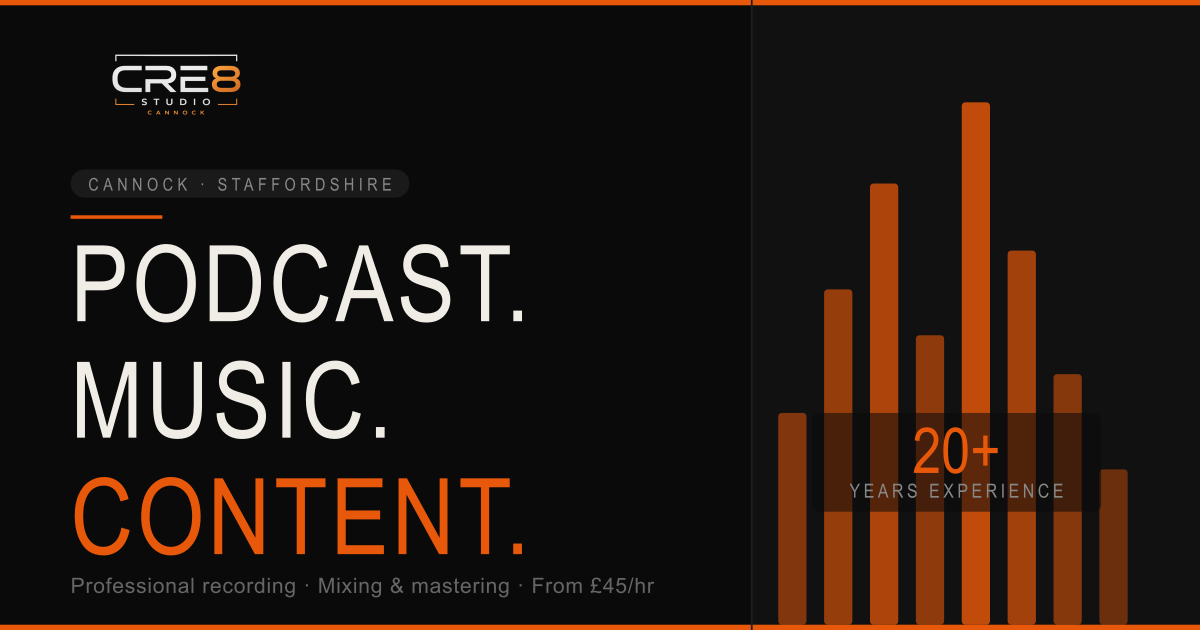
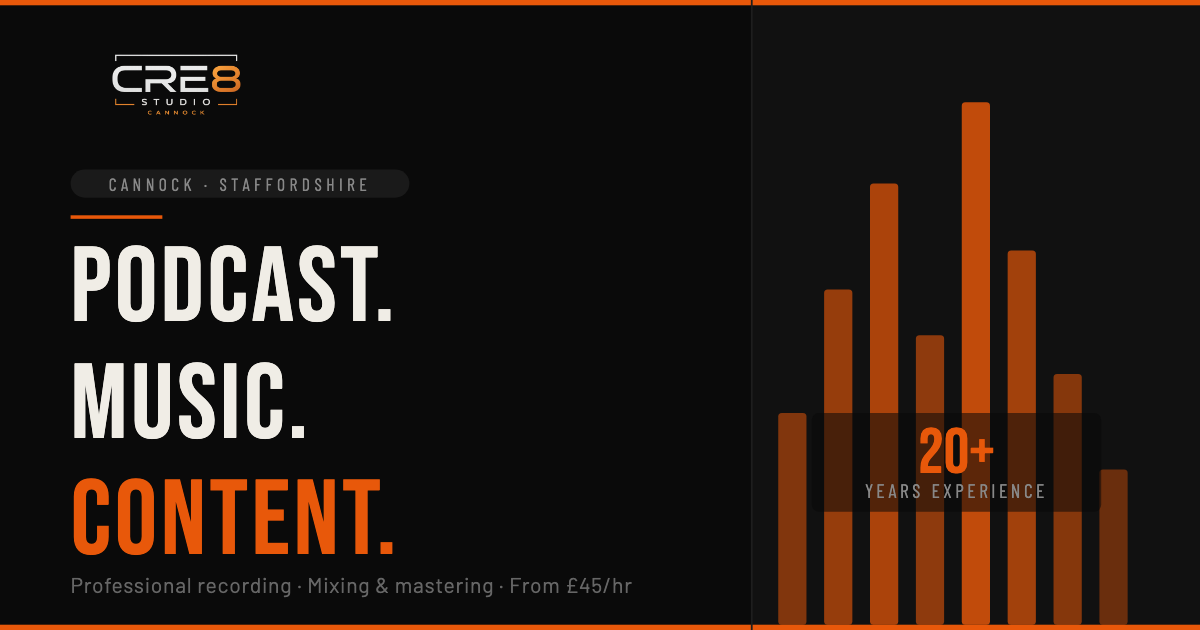
Render OG image with Chromium instead of Cairo for correct font weight
rsvg-convert (Cairo) rendered Bebas Neue noticeably lighter than
browsers do, so the OG card didn't match the hero. Added
img/og-render.html (same SVG markup, real Google Fonts link) and
screenshot it with Playwright's Chromium to get pixel-accurate
font weight matching the live site.

diff --git a/img/og-render.html b/img/og-render.html
@@ -1,0 +1,46 @@
+<!DOCTYPE html>
+<html>
+<head>
+<meta charset="UTF-8">
+<link rel="preconnect" href="https://fonts.googleapis.com">
+<link rel="preconnect" href="https://fonts.gstatic.com" crossorigin>
+<link href="https://fonts.googleapis.com/css2?family=Bebas+Neue&family=Barlow+Condensed:wght@400;600&family=Barlow:wght@400&display=swap" rel="stylesheet">
+<style>
+  html, body { margin: 0; padding: 0; }
+  svg { display: block; }
+</style>
+</head>
+<body>
+<svg width="1200" height="630" viewBox="0 0 680 357" role="img" xmlns="http://www.w3.org/2000/svg">
+  <title>CRE8 Studio — Professional Recording Studio in Cannock, Staffordshire</title>
+  <desc>Podcast, music and content production from £45/hr. 20+ years experience.</desc>
+
+  <rect width="680" height="357" fill="#0A0A0A"/>
+  <rect x="426" y="0" width="254" height="357" fill="#111111"/>
+  <rect x="441" y="234" width="16" height="120" rx="2" fill="#E8580A" opacity="0.52"/>
+  <rect x="467" y="164" width="16" height="190" rx="2" fill="#E8580A" opacity="0.62"/>
+  <rect x="493" y="104" width="16" height="250" rx="2" fill="#E8580A" opacity="0.72"/>
+  <rect x="519" y="190" width="16" height="164" rx="2" fill="#E8580A" opacity="0.58"/>
+  <rect x="545" y="58" width="16" height="296" rx="2" fill="#E8580A" opacity="0.82"/>
+  <rect x="571" y="142" width="16" height="212" rx="2" fill="#E8580A" opacity="0.68"/>
+  <rect x="597" y="212" width="16" height="142" rx="2" fill="#E8580A" opacity="0.54"/>
+  <rect x="623" y="266" width="16" height="88"  rx="2" fill="#E8580A" opacity="0.42"/>
+  <rect x="0" y="0"   width="680" height="3" fill="#E8580A"/>
+  <rect x="0" y="354" width="680" height="3" fill="#E8580A"/>
+  <line x1="426" y1="0" x2="426" y2="357" stroke="#1E1E1E" stroke-width="1"/>
+
+  <image href="logo/cre8-logo.png" x="40" y="10" width="120" height="80" preserveAspectRatio="xMinYMid meet"/>
+
+  <rect x="40" y="96" width="192" height="16" rx="8" fill="#1A1A1A"/>
+  <text x="136" y="108" font-family="'Barlow Condensed','Arial Narrow',sans-serif" font-size="10" fill="#888888" text-anchor="middle" letter-spacing="2.5">CANNOCK · STAFFORDSHIRE</text>
+  <rect x="40" y="122" width="52" height="2" fill="#E8580A"/>
+  <text x="40" y="182" font-family="'Bebas Neue','Arial Narrow',Impact,sans-serif" font-size="60" fill="#F0EDE6" letter-spacing="2">PODCAST.</text>
+  <text x="40" y="248" font-family="'Bebas Neue','Arial Narrow',Impact,sans-serif" font-size="60" fill="#F0EDE6" letter-spacing="2">MUSIC.</text>
+  <text x="40" y="314" font-family="'Bebas Neue','Arial Narrow',Impact,sans-serif" font-size="60" fill="#E8580A" letter-spacing="2">CONTENT.</text>
+  <text x="40" y="336" font-family="'Barlow','Arial',sans-serif" font-size="12" fill="#666666" letter-spacing="0.4">Professional recording · Mixing &amp; mastering · From £45/hr</text>
+  <rect x="460" y="234" width="164" height="56" rx="4" fill="#0A0A0A" opacity="0.55"/>
+  <text x="542" y="268" font-family="'Bebas Neue','Arial Narrow',Impact,sans-serif" font-size="36" fill="#E8580A" text-anchor="middle">20+</text>
+  <text x="542" y="282" font-family="'Barlow Condensed','Arial Narrow',sans-serif" font-size="11" fill="#888888" text-anchor="middle" letter-spacing="2">YEARS EXPERIENCE</text>
+</svg>
+</body>
+</html>